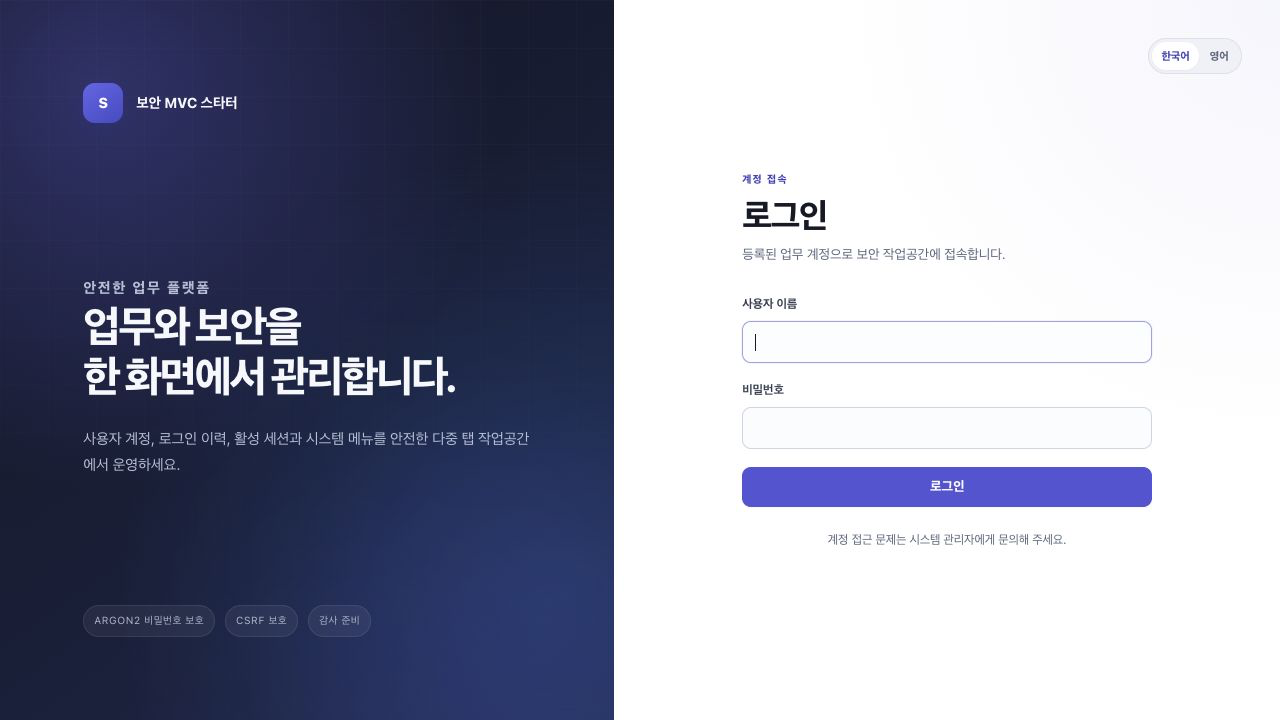
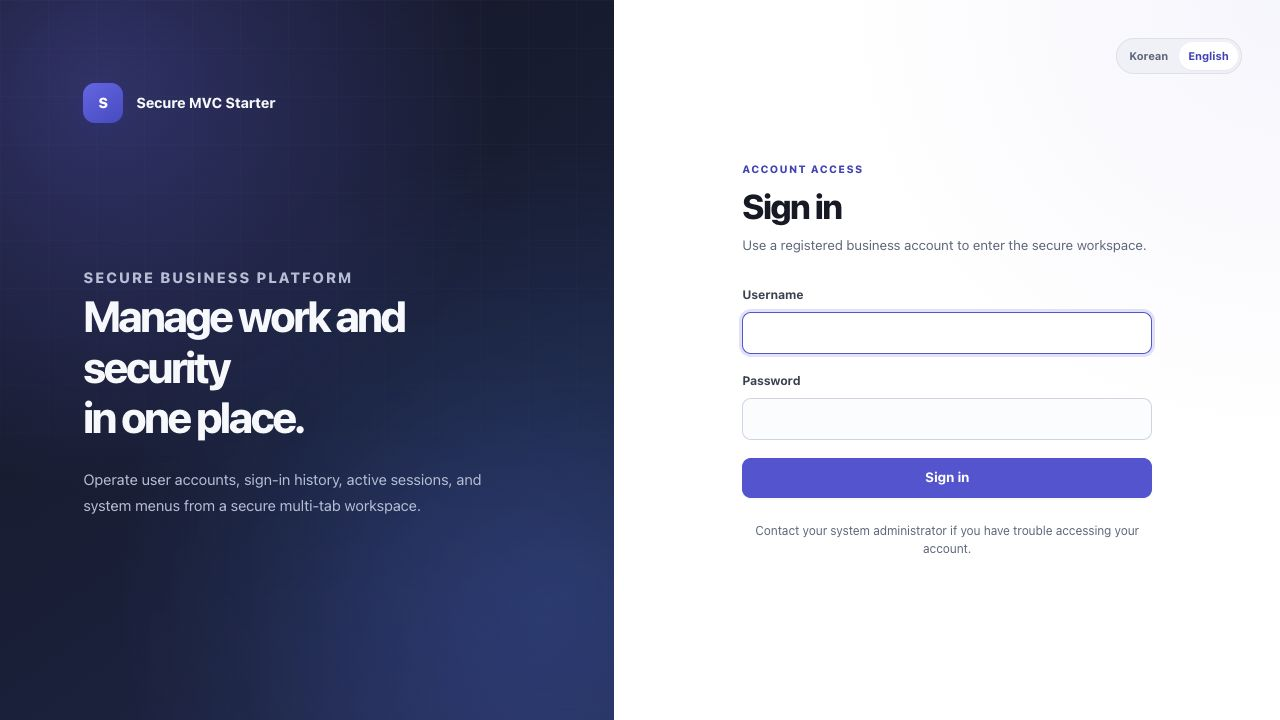
Refine workspace tabs and login layout

diff --git a/src/main/resources/static/assets/css/app.css b/src/main/resources/static/assets/css/app.css
@@ -829,7 +829,7 @@ td strong,
   position: relative;
   display: flex;
   flex-direction: column;
-  justify-content: space-between;
+  justify-content: flex-start;
   padding: clamp(38px, 6vw, 76px);
   overflow: hidden;
   color: #f7f9fc;
@@ -880,6 +880,7 @@ td strong,
   position: relative;
   z-index: 1;
   max-width: 560px;
+  margin-block: auto;
 }
 
 .auth-copy h2 {
@@ -894,17 +895,6 @@ td strong,
   margin: 22px 0 0;
   color: #b9c4d5;
   font-size: 0.98rem;
-}
-
-.auth-baseline {
-  position: relative;
-  z-index: 1;
-  display: flex;
-  gap: 22px;
-  color: #9cabc0;
-  font-size: 0.72rem;
-  letter-spacing: 0.04em;
-  text-transform: uppercase;
 }
 
 .auth-panel {
@@ -1313,6 +1303,8 @@ td strong,
   min-width: 0;
   display: flex;
   align-items: stretch;
+  gap: 2px;
+  padding: 6px 8px 0;
   background: #edf0f4;
   border-bottom: 1px solid var(--line-strong);
 }
@@ -1321,6 +1313,7 @@ td strong,
   min-width: 0;
   display: flex;
   flex: 1;
+  gap: 2px;
   overflow-x: auto;
   scrollbar-width: thin;
 }
@@ -1331,13 +1324,25 @@ td strong,
   max-width: 210px;
   display: flex;
   align-items: center;
-  background: #edf0f4;
-  border-right: 1px solid #d8dde5;
+  overflow: hidden;
+  background: transparent;
+  border: 1px solid transparent;
+  border-bottom-color: #d8dde5;
+  border-radius: 8px 8px 0 0;
+  transition: background 120ms ease, border-color 120ms ease, box-shadow 120ms ease;
+}
+
+.workspace-tab:hover {
+  background: rgba(255, 255, 255, 0.58);
+  border-color: #d8dde5;
 }
 
 .workspace-tab.is-active {
-  background: var(--surface);
-  box-shadow: inset 0 -2px var(--brand);
+  z-index: 1;
+  background: var(--surface-subtle);
+  border-color: #d8dde5;
+  border-bottom-color: var(--surface-subtle);
+  box-shadow: inset 0 2px var(--brand);
 }
 
 .workspace-tab-button {
@@ -1628,10 +1633,6 @@ td strong,
 
   .auth-copy h2 {
     font-size: 2.4rem;
-  }
-
-  .auth-baseline {
-    display: none;
   }
 
   .feature-grid {

diff --git a/src/main/resources/static/assets/css/theme-modern.css b/src/main/resources/static/assets/css/theme-modern.css
@@ -513,21 +513,6 @@ td strong {
   line-height: 1.75;
 }
 
-.auth-baseline {
-  gap: 10px;
-  color: #b5bdd1;
-  font-size: 0.64rem;
-  letter-spacing: 0.05em;
-}
-
-.auth-baseline span {
-  padding: 7px 10px;
-  background: rgba(255, 255, 255, 0.055);
-  border: 1px solid rgba(255, 255, 255, 0.08);
-  border-radius: 999px;
-  backdrop-filter: blur(10px);
-}
-
 .auth-panel {
   padding: clamp(34px, 7vw, 96px);
   background:
@@ -787,14 +772,14 @@ td strong {
 }
 
 .workspace-tabbar {
-  gap: 4px;
-  padding: 6px 8px 5px;
+  gap: 2px;
+  padding: 7px 8px 0;
   background: #f2f3f7;
-  border-bottom-color: var(--line);
+  border-bottom-color: var(--line-strong);
 }
 
 .workspace-tabs {
-  gap: 4px;
+  gap: 2px;
 }
 
 .workspace-tab {
@@ -803,18 +788,22 @@ td strong {
   overflow: hidden;
   background: transparent;
   border: 1px solid transparent;
-  border-radius: 9px;
+  border-bottom-color: var(--line);
+  border-radius: 9px 9px 0 0;
   transition: background 120ms ease, border-color 120ms ease, box-shadow 120ms ease;
 }
 
 .workspace-tab:hover {
   background: rgba(255, 255, 255, 0.65);
+  border-color: var(--line);
 }
 
 .workspace-tab.is-active {
-  background: var(--surface);
+  z-index: 1;
+  background: var(--surface-subtle);
   border-color: var(--line);
-  box-shadow: var(--shadow-xs);
+  border-bottom-color: var(--surface-subtle);
+  box-shadow: inset 0 2px 0 var(--brand);
 }
 
 .workspace-tab-button {
@@ -844,7 +833,8 @@ td strong {
 }
 
 .workspace-tabbar > .tabbar-action {
-  margin: 0;
+  align-self: center;
+  margin: 0 0 0 6px;
   color: #71798b;
 }
 
@@ -936,7 +926,7 @@ td strong {
   }
 
   .workspace-tabbar {
-    padding-inline: 6px;
+    padding: 6px 6px 0;
   }
 
   .workspace-tab {

diff --git a/README.md b/README.md
@@ -146,8 +146,6 @@ make down       # 컨테이너 중지, DB 볼륨 보존
 
 로컬에 Java 21이 있다면 `./mvnw test`, `./mvnw clean package`도 사용할 수 있습니다. 산출물은 `target/secure-mvc-starter.war`입니다.
 
-![로그인 화면](docs/images/login.png)
-
 ### 정상 동작 확인
 
 | 주소 | 기대 결과 |
